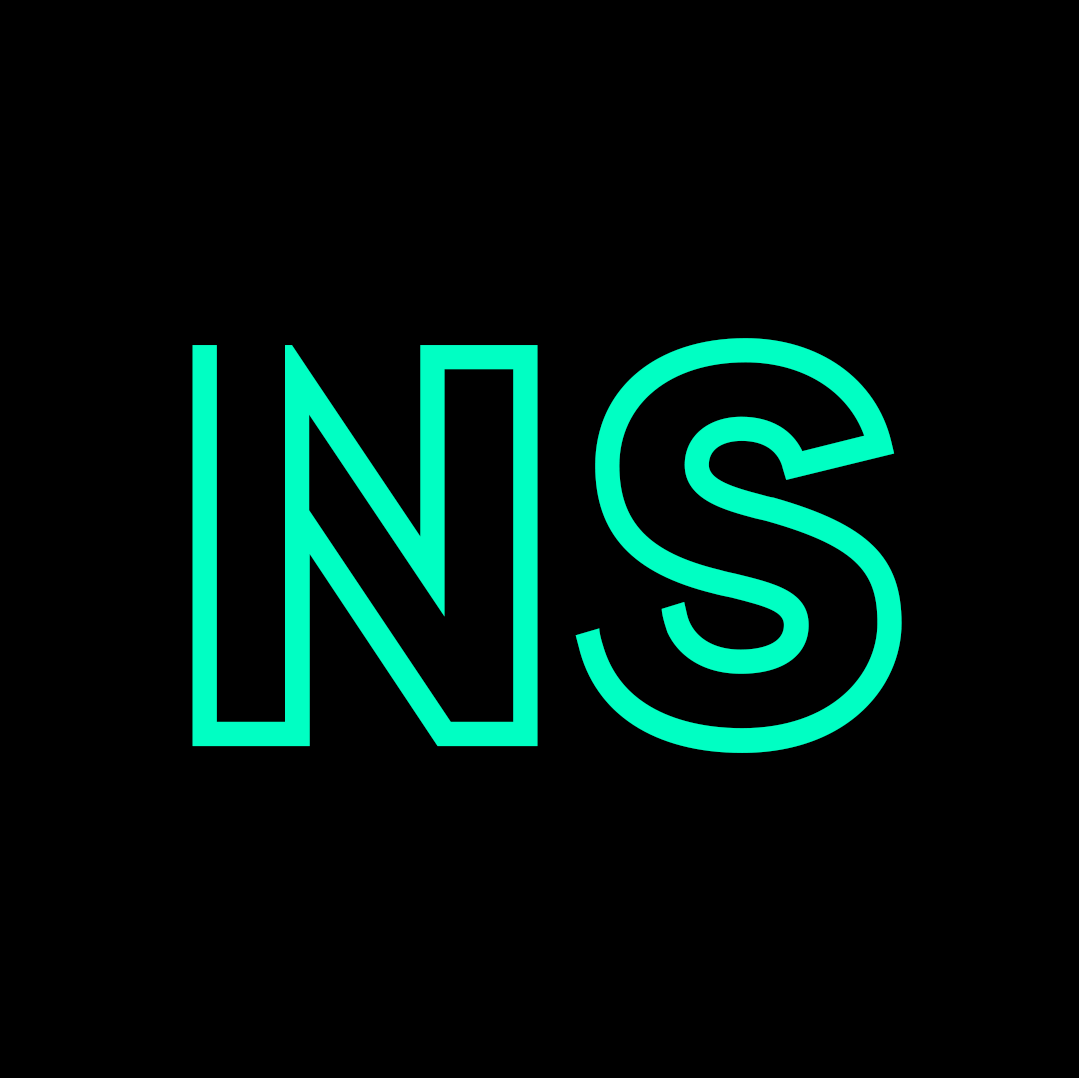
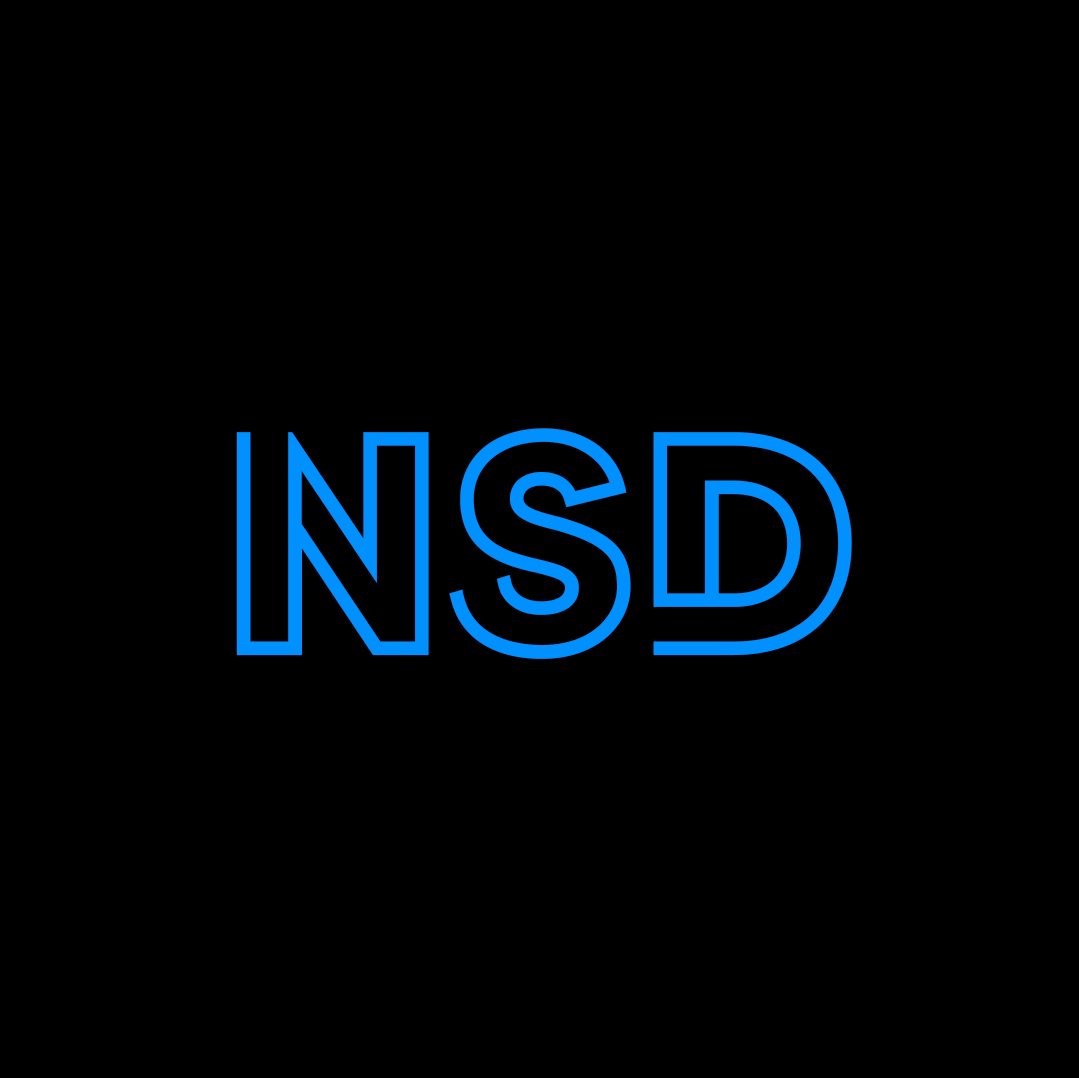
feat(design): Recolor, redesign
likely the final commits to this branch

Changed region(s): [[0.1529, 0.3061, 0.8563, 0.7041]]

diff --git a/index.html b/index.html
@@ -11,13 +11,13 @@
     <meta property="og:url" content="http://notsiege.dev/"/>
     <meta property="og:type" content="website" />
     <meta property="og:description" content="notsiege development is your go to place for anything FiveM related! We offer maps, cars, scripts and much more!" />
-    <meta property="og:image" content="https://hamy.iodine.gg/b3jf8.png" />
+    <meta property="og:image" content="https://siege.iodine.gg/b7549.png" />
     <title>notsiege development</title>
 </head>
 <body>
     <div class="container">
         <div class="header">
-            <img src="assets/img/icon.png" height="80" width="80">
+            <img class="top-icon" src="assets/img/icon.png" height="80" width="80">
             <h1>notsiege development</h1>
             <p>A FiveM™ development team, working to the highest standards and always putting our hardest work in.</p>
         </div>

diff --git a/assets/css/styles.css b/assets/css/styles.css
@@ -1,10 +1,10 @@
 body {
-    background-color: #2c2f33;
+    background-color: black;
 }
 
 .header {
     padding-top: 0.1mm;
-    color: #00ffca;
+    color: #0090ff;
     font-family: 'Raleway', sans-serif;
     text-align: center;
     position: relative;
@@ -19,14 +19,14 @@ body {
     padding-bottom: 0.1mm;
 }
 
-.header img {
+.top-icon {
     position: absolute;
     top: 0px;
     right: 0px;
 }
 
 .topnav {
-    background-color: #00ffca;
+    background-color: #0090ff;
     overflow: hidden;
 }
 
@@ -52,7 +52,7 @@ body {
 }
 
 .description h1 {
-    padding-top: 15px;
+    padding-top: 10px;
     color: white;
     font-family: 'Raleway';
     text-align: center;
